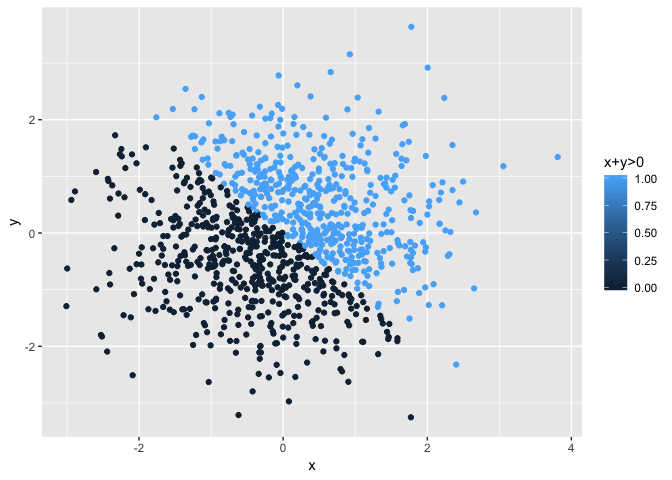
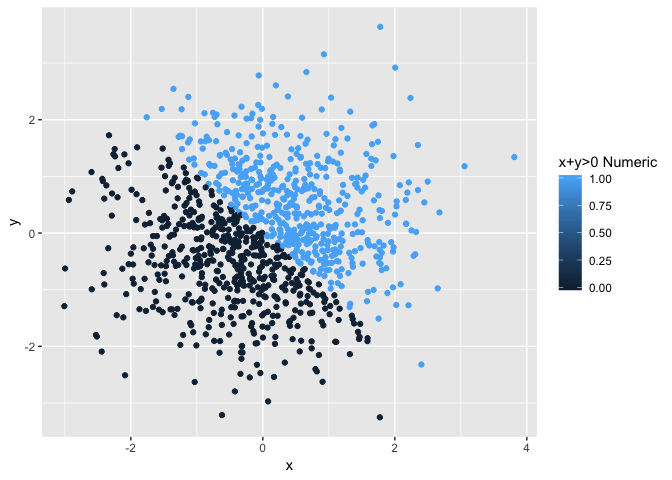
change problem 2 plots

diff --git a/p8105_hw1_jl5297.md b/p8105_hw1_jl5297.md
@@ -142,7 +142,7 @@ Make a scatterplot y vs x; color points using the logical variable.
 
 ``` r
 ggplot(problem2_df, aes(x = x, y = y, color = xy_logical)) + geom_point() +
-    scale_color_discrete(name = "x+y>0")
+    scale_color_discrete(name = "x+y>0 Logical")
 ```
 
 ![](p8105_hw1_jl5297_files/figure-markdown_github/plot1-1.png)
@@ -157,7 +157,7 @@ Make a scatterplot y vs x; color points using the numeric variable.
 
 ``` r
 ggplot(problem2_df, aes(x = x, y = y, color = xy_numeric)) + geom_point() + 
-    scale_color_continuous(name = "x+y>0")
+    scale_color_continuous(name = "x+y>0 Numeric")
 ```
 
 ![](p8105_hw1_jl5297_files/figure-markdown_github/plot2-1.png)
@@ -172,7 +172,7 @@ Make a scatterplot y vs x; color points using the factor variable.
 
 ``` r
 ggplot(problem2_df, aes(x = x, y = y, color = xy_factor)) + geom_point() + 
-    scale_color_discrete(name = "x+y>0")
+    scale_color_discrete(name = "x+y>0 Factor")
 ```
 
 ![](p8105_hw1_jl5297_files/figure-markdown_github/plot3-1.png)
